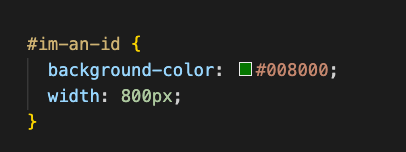
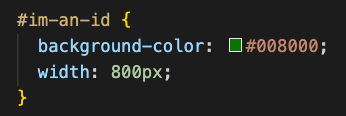
Add Classes vs Ids post content

Changed region(s): [[0.0289, 0.1034, 0.9538, 0.5172], [0.0867, 0.5431, 0.4913, 0.6983], [0.0578, 0.75, 0.0867, 0.9052]]

diff --git a/blog/tech-entries/classes-vs-ids.html b/blog/tech-entries/classes-vs-ids.html
@@ -1,0 +1,71 @@
+<!DOCTYPE html>
+<html lang="en">
+  <head>
+    <title>Core Skills - Sparrow Learns Stuff</title>
+    <link rel="stylesheet" href="../../styles/main.css">
+
+  </head>
+  <body>
+    <div class="navbar center">
+      <a href="../index.html">Home</a>
+      <a href="core.html">Core</a>
+      <a href="tech.html">Tech</a>
+      <a href="about-me.html">About Me</a>
+    </div>
+
+    <div class="row block">
+      <div class="col-12">
+          <h1>Classes vs. ids</h1>
+      </div>
+    
+  </div>
+
+    <div class="row block">
+      <div class="col-12">
+        <p class="blog-text">Classes and IDs are a super useful tools to make your code more organised and more efficient.
+          Let's learn about how they work and how to best utilise them!
+        </p>
+        <h3><span>What do they do? And what's the difference?</span></h3>
+        <p class="blog-text">Both Classes and IDs are used to ascribe a set of styling rules to parts of your code.
+          The difference is, classes are used to style multiple elements in your code where IDs are used to style a single, unique element.</p>
+          <h3><span>Why do we need them?</span></h3>
+          <p class="blog-text">When we're building a site, having a cohesive style helps present the information clearly to the user.
+            Fonts, colours, sizes, spacing - it's easier to understand a site that keeps these things consistent.
+            Classes and IDs help us do this, without having to copy and paste the same piece of code over and over.</div>
+            
+      </div>
+    </div>
+    <div class="row block">
+      <div class="col-12">   
+          <h3><span>What is a ID?</span></h3>
+          <p class="blog-text">If you want to apply a unique set of styling rules to one element in your code, IDs are the way to do this.
+            Each ID connects only to one element, and each element can have only one ID assigned to it.
+          <h3><span>How do you create and use an ID?</span></h3>
+          <p class="blog-text">IDs, like other styling rules, must be declared in your stylesheet.
+            They are denoted by the # symbol. Here is an example of an ID that makes an element's background-colour green and width 800px:</p>
+
+          <img src="../../images/id-eg.png">
+      </div>
+    </div>
+    <div class="row block">
+      <div class="col-12">
+
+          <h3><span>What is a Class?</span></h3>
+          <p class="blog-text">If you want a set of styling rules that will be used on multiple elements in your code, it's time to make a class.
+            Unlike an ID, Classes can be used on multiple elements throughout your code. And just as a class can be assigned to multiple elements,
+            an element can have multiple classes. Classes are denoted by a . symbol.
+          <h3><span>How do you create and use a Class?</span></h3>
+          <p class="blog-text">Add a new class to your stylesheet using the . Symbol followed by the class name.
+            Here is an example of a class that makes the font-size 20px and the colour red:</p>
+            <img src="../../images/class-eg.png">
+
+              
+      </div>
+    </div>
+        
+      </div>
+    </div>
+  </body>
+</html>
+  
+

diff --git a/styles/main.css b/styles/main.css
@@ -130,6 +130,11 @@
   
 }
 
+.blog-text {
+  text-align: left;
+  padding: 10px;
+}
+
 /* Active/current link */
 /* .navbar a.active {
   background-color: #666;
@@ -159,6 +164,17 @@ h1 {
 
 h2 {
   text-transform: uppercase;
+}
+
+h3{
+  text-transform: uppercase;
+  margin: 20px;
+}
+
+h3 span {
+  padding: 5px;
+  background-color: rgba(0, 82, 30, 0.5);
+  border-radius: 10px;
 }
 
 /* Mobile, smallest view */
